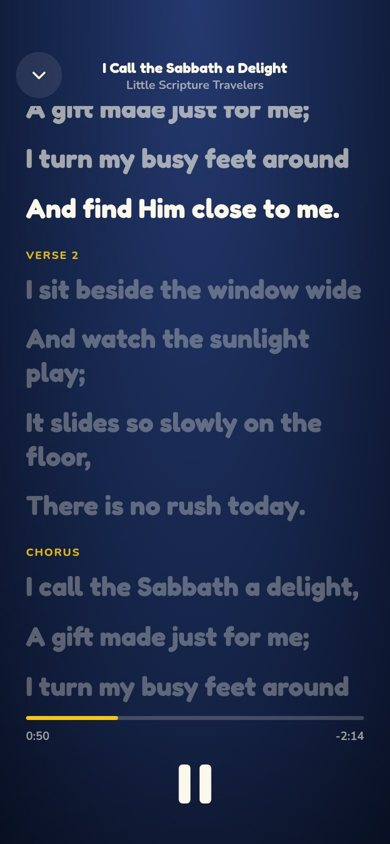
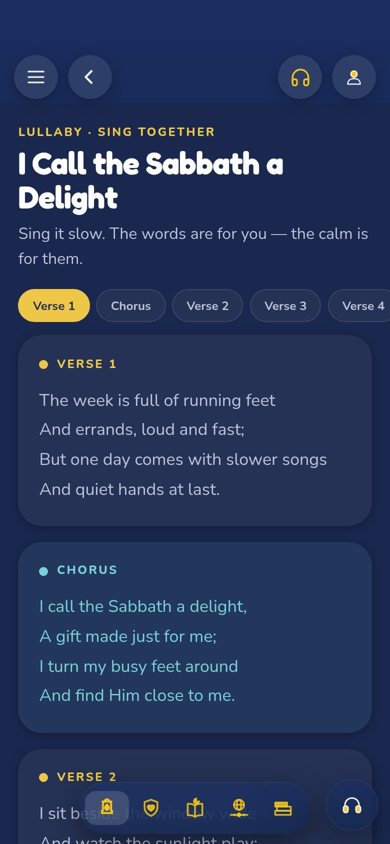
Website: the story phone's lullaby is the app itself; songs show both lyric pages; the story sits right after The Lantern
- Sing tonight's lullaby in the phone opens the real app, locked to that one
  song page (app.littlescripturetravelers.com/?demo-song=...): headphone
  bubble, little bar, big player with the night's cover and Lyrics - the
  same as on a phone. Back to the story returns to the same page.
- Tonight's Song & the Lantern Lullaby opens with two screens side by side:
  the night's song page and the Lantern Lullaby's page (data-app-shot2).
- The flip-through story sits right after The Lantern's plan, before the
  look inside the app.

Claude-Session: https://claude.ai/code/session_01PEnLUDwqFrrjJZBH17T5JA

diff --git a/subscribe.html b/subscribe.html
@@ -1160,52 +1160,7 @@
   <section class="subscribe-section" id="plans">
     <div class="section-inner">
 
-        <!-- THE STORY ON A PHONE (Levi, 16 Oct 2026): a real night's picture book, turned the way it is in the app. -->
-        <div class="app-tour story-demo" id="story-demo">
-          <div class="app-tour-kicker">&#10022; Try it yourself &#10022;</div>
-          <h3>Flip through a real Story of the Night</h3>
-          <p class="app-tour-sub">This is a real night from the app. Tap the page, or swipe it, to turn to the next one, just like on a phone.</p>
-          <script>
-          /* The story's last page asks its host to open the lullaby, the way the app does.
-             Here the song opens over the story, inside the phone; Back to the story closes
-             it and the book is still on the page it was on (Levi, 16 Oct 2026). */
-          function sdDress(f){ try{ var d=f.contentDocument; if(!d||!d.head) return; var s=d.createElement('style');
-            s.textContent='#backLink,.back{visibility:hidden!important}'; d.head.appendChild(s);
-            /* one tap on the song's Play or Listen starts the music, the way the app's headphones do */
-            if(f.id==='sdSong') d.addEventListener('click',function(e){
-              var t=e.target&&e.target.closest&&e.target.closest('[data-lantern-open]'); if(!t) return;
-              setTimeout(function(){ try{ var a=d.getElementById('player'), b=d.querySelector('.lp-play'); if(a&&a.paused&&b) b.click(); }catch(x){} },120);
-            },true);
-          }catch(e){} }
-          window.lstOpenSite=function(href){
-            var u=String(href||'').replace(/^https?:\/\/(www\.)?littlescripturetravelers\.com\//i,'/');
-            var song=document.getElementById('sdSong'); song.src=u; song.hidden=false;
-            document.getElementById('sdBack').hidden=false;
-          };
-          /* Inside a frame the song page hands its Play to "the app" (lst:play). On the website
-             there is no app, so its own player is started here instead. */
-          window.addEventListener('message',function(e){
-            var song=document.getElementById('sdSong'); if(!song||e.source!==song.contentWindow) return;
-            if(!e.data||e.data.type!=='lst:play') return;
-            try{ var w=song.contentWindow, d=song.contentDocument;
-              if(w.LanternPlayer){ w.LanternPlayer.show(); setTimeout(function(){ var b=d.querySelector('.lp-play'); if(b) b.click(); },60); }
-              else { var a=d.getElementById('player'); if(a) a.play(); } }catch(err){}
-          });
-          function sdBackToStory(){
-            var song=document.getElementById('sdSong');
-            try{ var a=song.contentDocument&&song.contentDocument.querySelectorAll('audio'); if(a) for(var i=0;i<a.length;i++) a[i].pause(); }catch(e){}
-            song.hidden=true; song.src='about:blank'; document.getElementById('sdBack').hidden=true;
-          }
-          </script>
-          <div class="sd-phone"><span class="sd-notch" aria-hidden="true"></span>
-            <iframe class="sd-screen" id="sdStory" src="lantern/the-day-called-delight/the-day-called-delight.html" loading="lazy" title="The Day Called Delight, a Little Scripture Travelers story to flip through"
-              onload="sdDress(this)"></iframe>
-            <iframe class="sd-screen sd-song" id="sdSong" hidden title="The story's lullaby" onload="sdDress(this)"></iframe>
-            <button type="button" class="sd-back" id="sdBack" hidden onclick="sdBackToStory()">&lsaquo; Back to the story</button>
-          </div>
 
-          <p class="app-tour-swipe">Every night brings a new one, with its own song at the end.</p>
-        </div>
       <!-- Draws nothing unless data/founding-offer.js is switched on. -->
       <div id="lst-founding"></div>
       <h2 class="section-title">The Lantern</h2>
@@ -1251,8 +1206,8 @@
               <span class="perk-label"><span class="perk-title">Tonight’s Song &amp; the Lantern Lullaby</span><span class="perk-line">A song written for each night’s story, and our signature lullaby, with the words on screen to sing along.</span></span>
               <span class="perk-eye" title="See it in the app">&#128065;</span>
               <div class="perk-popup">
-                <div class="perk-popup-media" data-product="app-songs" data-app-shot="images/app/app-songs.jpg" data-app-title="Tonight’s Song &amp; the Lantern Lullaby" data-app-desc="Every story has a song of its own, and the Lantern Lullaby is the same comforting song every night, so your child knows bedtime is here. The lyrics sit right under the player, each line lighting up as it is sung. Tap a line and the song starts from there. The Lantern Lullaby plays with one tap from the Lullabies page." style="cursor:zoom-in;">
-                  <img class="app-thumb" src="images/app/app-songs.jpg" alt="A lullaby in the app’s player, the line being sung lit up" loading="lazy" style="width:100%;border-radius:20px;display:block;">
+                <div class="perk-popup-media" data-product="app-songs" data-app-shot="images/app/app-songs.jpg" data-app-shot2="images/app/app-lullaby.jpg" data-app-title="Tonight’s Song &amp; the Lantern Lullaby" data-app-desc="Every story has a song of its own, and the Lantern Lullaby is the same comforting song every night, so your child knows bedtime is here. The lyrics sit right under the player, each line lighting up as it is sung. Tap a line and the song starts from there. The Lantern Lullaby plays with one tap from the Lullabies page." style="cursor:zoom-in;">
+                  <img class="app-thumb" src="images/app/app-songs.jpg" alt="Tonight’s song page in the app, with its words to sing" loading="lazy" style="width:100%;border-radius:20px;display:block;">
                   <div style="text-align:center;font-family: var(--font-body);font-size:0.65rem;color:var(--gold-ink-70);margin-top:4px;">Click to see it full size &#8599;</div>
                 </div>
                 <strong class="perk-popup-name">Tonight’s Song &amp; the Lantern Lullaby</strong>
@@ -1426,6 +1381,46 @@
   <!-- ── A look inside the app ── -->
   <section class="subscribe-section" id="inside-app-section" style="padding-top:1rem;">
     <div class="section-inner">
+        <!-- THE STORY ON A PHONE (Levi, 16 Oct 2026): a real night's picture book, turned the way it is in the app. -->
+        <div class="app-tour story-demo" id="story-demo">
+          <div class="app-tour-kicker">&#10022; Try it yourself &#10022;</div>
+          <h3>Flip through a real Story of the Night</h3>
+          <p class="app-tour-sub">This is a real night from the app. Tap the page, or swipe it, to turn to the next one, just like on a phone.</p>
+          <script>
+          /* The story's last page asks its host to open the lullaby, the way the app does.
+             Here the song opens over the story, inside the phone; Back to the story closes
+             it and the book is still on the page it was on (Levi, 16 Oct 2026). */
+          function sdDress(f){ try{ var d=f.contentDocument; if(!d||!d.head) return; var s=d.createElement('style');
+            s.textContent='#backLink,.back{visibility:hidden!important}'; d.head.appendChild(s);
+            /* one tap on the song's Play or Listen starts the music, the way the app's headphones do */
+            if(f.id==='sdSong') d.addEventListener('click',function(e){
+              var t=e.target&&e.target.closest&&e.target.closest('[data-lantern-open]'); if(!t) return;
+              setTimeout(function(){ try{ var a=d.getElementById('player'), b=d.querySelector('.lp-play'); if(a&&a.paused&&b) b.click(); }catch(x){} },120);
+            },true);
+          }catch(e){} }
+          window.lstOpenSite=function(href,title){
+            /* the app itself, locked to this one song page, so it plays exactly as it does on a phone */
+            var u=String(href||'').replace(/^https?:\/\/(www\.)?littlescripturetravelers\.com\//i,'https://littlescripturetravelers.com/');
+            var ph=document.querySelector('.sd-phone');
+            var song=document.getElementById('sdSong');
+            song.src='https://app.littlescripturetravelers.com/?demo-song='+encodeURIComponent(u)+'&date='+encodeURIComponent(ph.getAttribute('data-night-date')||'')+'&title='+encodeURIComponent(title||ph.getAttribute('data-song-title')||'');
+            song.hidden=false; document.getElementById('sdBack').hidden=false;
+          };
+          function sdBackToStory(){
+            var song=document.getElementById('sdSong');
+            try{ var a=song.contentDocument&&song.contentDocument.querySelectorAll('audio'); if(a) for(var i=0;i<a.length;i++) a[i].pause(); }catch(e){}
+            song.hidden=true; song.src='about:blank'; document.getElementById('sdBack').hidden=true;   /* leaving the page stops the song */
+          }
+          </script>
+          <div class="sd-phone" data-night-date="2026-10-16" data-song-title="I Call the Sabbath a Delight"><span class="sd-notch" aria-hidden="true"></span>
+            <iframe class="sd-screen" id="sdStory" src="lantern/the-day-called-delight/the-day-called-delight.html" loading="lazy" title="The Day Called Delight, a Little Scripture Travelers story to flip through"
+              onload="sdDress(this)"></iframe>
+            <iframe class="sd-screen sd-song" id="sdSong" hidden title="The story's lullaby" allow="autoplay"></iframe>
+            <button type="button" class="sd-back" id="sdBack" hidden onclick="sdBackToStory()">&lsaquo; Back to the story</button>
+          </div>
+
+          <p class="app-tour-swipe">Every night brings a new one, with its own song at the end.</p>
+        </div>
       <!-- A look inside the app: real screens from the app (images/app/). A tap opens one full size (js/lst-app-peek.js). -->
       <div class="app-tour" id="inside-app">
         <div class="app-tour-kicker">&#10022; A look inside the app &#10022;</div>
@@ -1434,7 +1429,7 @@
         <div class="app-tour-track">
           <button type="button" class="app-shot" data-app-shot="images/app/app-lantern.jpg" data-app-title="The Morning Lantern" data-app-desc="Waiting by 5 AM every morning: tonight’s scripture, the gospel principle behind it, and the background that brings it to life. Pick Quick for a few minutes, Medium for a little more, or Deep for a full study. A Parent’s Heart gives you three questions to ponder all day, so you reach bedtime with your own story ready to share. It comes in two editions, The Church of Jesus Christ of Latter-day Saints and Christian, each read aloud in its own recording." aria-label="See The Morning Lantern full size"><span class="app-shot-phone"><img src="images/app/app-lantern.jpg" alt="The Morning Lantern in the app: tonight’s scripture and Tonight’s Resources, the lullaby, the story and the Lantern Lullaby" loading="lazy" width="390" height="844"></span><span class="app-shot-cap">The Morning Lantern<span class="app-shot-line">Quick, Medium or Deep</span></span></button>
           <button type="button" class="app-shot" data-app-shot="images/app/app-story.jpg" data-app-title="A New Bedtime Story Every Night" data-app-desc="A short, gentle scripture story for every night, told in the smallest words that still carry the meaning, with one of the four Travelers beside it. It is a picture book you flip through on the phone: a big picture and a few lines on every page. Read it to your children yourself, or tap the headphones and the app reads it aloud. On the last page, one tap opens tonight’s song." aria-label="See A New Bedtime Story Every Night full size"><span class="app-shot-phone"><img src="images/app/app-story.jpg" alt="Tonight’s picture book in the app, a big picture and a few lines on each page" loading="lazy" width="390" height="844"></span><span class="app-shot-cap">A New Bedtime Story Every Night<span class="app-shot-line">A new one every night</span></span></button>
-          <button type="button" class="app-shot" data-app-shot="images/app/app-songs.jpg" data-app-title="Tonight’s Song &amp; the Lantern Lullaby" data-app-desc="Every story has a song of its own, and the Lantern Lullaby is the same comforting song every night, so your child knows bedtime is here. The lyrics sit right under the player, each line lighting up as it is sung. Tap a line and the song starts from there. The Lantern Lullaby plays with one tap from the Lullabies page." aria-label="See Tonight’s Song &amp; the Lantern Lullaby full size"><span class="app-shot-phone"><img src="images/app/app-songs.jpg" alt="A lullaby in the app’s player, the line being sung lit up" loading="lazy" width="390" height="844"></span><span class="app-shot-cap">Tonight’s Song &amp; the Lantern Lullaby<span class="app-shot-line">Lyrics to sing along</span></span></button>
+          <button type="button" class="app-shot" data-app-shot="images/app/app-songs.jpg" data-app-shot2="images/app/app-lullaby.jpg" data-app-title="Tonight’s Song &amp; the Lantern Lullaby" data-app-desc="Every story has a song of its own, and the Lantern Lullaby is the same comforting song every night, so your child knows bedtime is here. The lyrics sit right under the player, each line lighting up as it is sung. Tap a line and the song starts from there. The Lantern Lullaby plays with one tap from the Lullabies page." aria-label="See Tonight’s Song &amp; the Lantern Lullaby full size"><span class="app-shot-phone"><img src="images/app/app-songs.jpg" alt="Tonight’s song page in the app, with its words to sing" loading="lazy" width="390" height="844"></span><span class="app-shot-cap">Tonight’s Song &amp; the Lantern Lullaby<span class="app-shot-line">Lyrics to sing along</span></span></button>
           <button type="button" class="app-shot" data-app-shot="images/app/app-library.jpg" data-app-title="The Virtue Library" data-app-desc="Your child is facing something real tonight: a fib, a lost temper, a hard goodbye. Look it up by virtue, by character, by life situation, by feeling or by scripture, and the story that fits is already there." aria-label="See The Virtue Library full size"><span class="app-shot-phone"><img src="images/app/app-library.jpg" alt="The Virtue Library in the app, with stories sorted by virtue" loading="lazy" width="390" height="844"></span><span class="app-shot-cap">The Virtue Library<span class="app-shot-line">Find tonight’s story</span></span></button>
           <button type="button" class="app-shot" data-app-shot="images/app/app-archive.jpg" data-app-title="Daily Stories" data-app-desc="Every night that has gone out, newest first, with its story, its Morning Lantern and its song kept together. Search by date, title or scripture to find a favorite again." aria-label="See Daily Stories full size"><span class="app-shot-phone"><img src="images/app/app-archive.jpg" alt="Daily Stories in the app, a list of past nights with their scriptures" loading="lazy" width="390" height="844"></span><span class="app-shot-cap">Daily Stories<span class="app-shot-line">Every night kept</span></span></button>
           <button type="button" class="app-shot" data-app-shot="images/app/app-journal.jpg" data-app-title="The Journal" data-app-desc="Your own private book. Type, or just talk and the app writes it down. Keep voice memos, write from a daily prompt, and look back by calendar or on a map of where you were. The night’s reflections are filed here too." aria-label="See The Journal full size"><span class="app-shot-phone"><img src="images/app/app-journal.jpg" alt="The Journal in the app, today’s entries, a daily prompt and Just talk" loading="lazy" width="390" height="844"></span><span class="app-shot-cap">The Journal<span class="app-shot-line">Your private diary</span></span></button>

diff --git a/index.html b/index.html
@@ -752,52 +752,7 @@
       <div style="max-width:1100px;margin:0 auto;">
 
         <!-- Header -->
-        <!-- THE STORY ON A PHONE (Levi, 16 Oct 2026): a real night's picture book, turned the way it is in the app. -->
-        <div class="app-tour story-demo" id="story-demo">
-          <div class="app-tour-kicker">&#10022; Try it yourself &#10022;</div>
-          <h3>Flip through a real Story of the Night</h3>
-          <p class="app-tour-sub">This is a real night from the app. Tap the page, or swipe it, to turn to the next one, just like on a phone.</p>
-          <script>
-          /* The story's last page asks its host to open the lullaby, the way the app does.
-             Here the song opens over the story, inside the phone; Back to the story closes
-             it and the book is still on the page it was on (Levi, 16 Oct 2026). */
-          function sdDress(f){ try{ var d=f.contentDocument; if(!d||!d.head) return; var s=d.createElement('style');
-            s.textContent='#backLink,.back{visibility:hidden!important}'; d.head.appendChild(s);
-            /* one tap on the song's Play or Listen starts the music, the way the app's headphones do */
-            if(f.id==='sdSong') d.addEventListener('click',function(e){
-              var t=e.target&&e.target.closest&&e.target.closest('[data-lantern-open]'); if(!t) return;
-              setTimeout(function(){ try{ var a=d.getElementById('player'), b=d.querySelector('.lp-play'); if(a&&a.paused&&b) b.click(); }catch(x){} },120);
-            },true);
-          }catch(e){} }
-          window.lstOpenSite=function(href){
-            var u=String(href||'').replace(/^https?:\/\/(www\.)?littlescripturetravelers\.com\//i,'/');
-            var song=document.getElementById('sdSong'); song.src=u; song.hidden=false;
-            document.getElementById('sdBack').hidden=false;
-          };
-          /* Inside a frame the song page hands its Play to "the app" (lst:play). On the website
-             there is no app, so its own player is started here instead. */
-          window.addEventListener('message',function(e){
-            var song=document.getElementById('sdSong'); if(!song||e.source!==song.contentWindow) return;
-            if(!e.data||e.data.type!=='lst:play') return;
-            try{ var w=song.contentWindow, d=song.contentDocument;
-              if(w.LanternPlayer){ w.LanternPlayer.show(); setTimeout(function(){ var b=d.querySelector('.lp-play'); if(b) b.click(); },60); }
-              else { var a=d.getElementById('player'); if(a) a.play(); } }catch(err){}
-          });
-          function sdBackToStory(){
-            var song=document.getElementById('sdSong');
-            try{ var a=song.contentDocument&&song.contentDocument.querySelectorAll('audio'); if(a) for(var i=0;i<a.length;i++) a[i].pause(); }catch(e){}
-            song.hidden=true; song.src='about:blank'; document.getElementById('sdBack').hidden=true;
-          }
-          </script>
-          <div class="sd-phone"><span class="sd-notch" aria-hidden="true"></span>
-            <iframe class="sd-screen" id="sdStory" src="lantern/the-day-called-delight/the-day-called-delight.html" loading="lazy" title="The Day Called Delight, a Little Scripture Travelers story to flip through"
-              onload="sdDress(this)"></iframe>
-            <iframe class="sd-screen sd-song" id="sdSong" hidden title="The story's lullaby" onload="sdDress(this)"></iframe>
-            <button type="button" class="sd-back" id="sdBack" hidden onclick="sdBackToStory()">&lsaquo; Back to the story</button>
-          </div>
 
-          <p class="app-tour-swipe">Every night brings a new one, with its own song at the end.</p>
-        </div>
 
         <div style="text-align:center;margin-bottom:2rem;">
           <div style="font-family: var(--font-accent);font-size:0.72rem;letter-spacing:0.2em;text-transform:uppercase;color:var(--gold-ink);margin-bottom:0.75rem;">✦ THE LANTERN ✦</div>
@@ -848,8 +803,8 @@
                 <span class="perk-label"><span class="perk-title">Tonight’s Song &amp; the Lantern Lullaby</span><span class="perk-line">A song written for each night’s story, and our signature lullaby, with the words on screen to sing along.</span></span>
                 <span class="perk-eye" title="See it in the app">&#128065;</span>
                 <div class="perk-popup">
-                  <div class="perk-popup-media" data-product="app-songs" data-app-shot="images/app/app-songs.jpg" data-app-title="Tonight’s Song &amp; the Lantern Lullaby" data-app-desc="Every story has a song of its own, and the Lantern Lullaby is the same comforting song every night, so your child knows bedtime is here. The lyrics sit right under the player, each line lighting up as it is sung. Tap a line and the song starts from there. The Lantern Lullaby plays with one tap from the Lullabies page." style="cursor:zoom-in;">
-                    <img class="app-thumb" src="images/app/app-songs.jpg" alt="A lullaby in the app’s player, the line being sung lit up" loading="lazy" style="width:100%;border-radius:20px;display:block;">
+                  <div class="perk-popup-media" data-product="app-songs" data-app-shot="images/app/app-songs.jpg" data-app-shot2="images/app/app-lullaby.jpg" data-app-title="Tonight’s Song &amp; the Lantern Lullaby" data-app-desc="Every story has a song of its own, and the Lantern Lullaby is the same comforting song every night, so your child knows bedtime is here. The lyrics sit right under the player, each line lighting up as it is sung. Tap a line and the song starts from there. The Lantern Lullaby plays with one tap from the Lullabies page." style="cursor:zoom-in;">
+                    <img class="app-thumb" src="images/app/app-songs.jpg" alt="Tonight’s song page in the app, with its words to sing" loading="lazy" style="width:100%;border-radius:20px;display:block;">
                     <div style="text-align:center;font-family: var(--font-body);font-size:0.65rem;color:var(--gold-ink-70);margin-top:4px;">Click to see it full size &#8599;</div>
                   </div>
                   <strong class="perk-popup-name">Tonight’s Song &amp; the Lantern Lullaby</strong>
@@ -1006,6 +961,46 @@
 
         </div>
 
+        <!-- THE STORY ON A PHONE (Levi, 16 Oct 2026): a real night's picture book, turned the way it is in the app. -->
+        <div class="app-tour story-demo" id="story-demo">
+          <div class="app-tour-kicker">&#10022; Try it yourself &#10022;</div>
+          <h3>Flip through a real Story of the Night</h3>
+          <p class="app-tour-sub">This is a real night from the app. Tap the page, or swipe it, to turn to the next one, just like on a phone.</p>
+          <script>
+          /* The story's last page asks its host to open the lullaby, the way the app does.
+             Here the song opens over the story, inside the phone; Back to the story closes
+             it and the book is still on the page it was on (Levi, 16 Oct 2026). */
+          function sdDress(f){ try{ var d=f.contentDocument; if(!d||!d.head) return; var s=d.createElement('style');
+            s.textContent='#backLink,.back{visibility:hidden!important}'; d.head.appendChild(s);
+            /* one tap on the song's Play or Listen starts the music, the way the app's headphones do */
+            if(f.id==='sdSong') d.addEventListener('click',function(e){
+              var t=e.target&&e.target.closest&&e.target.closest('[data-lantern-open]'); if(!t) return;
+              setTimeout(function(){ try{ var a=d.getElementById('player'), b=d.querySelector('.lp-play'); if(a&&a.paused&&b) b.click(); }catch(x){} },120);
+            },true);
+          }catch(e){} }
+          window.lstOpenSite=function(href,title){
+            /* the app itself, locked to this one song page, so it plays exactly as it does on a phone */
+            var u=String(href||'').replace(/^https?:\/\/(www\.)?littlescripturetravelers\.com\//i,'https://littlescripturetravelers.com/');
+            var ph=document.querySelector('.sd-phone');
+            var song=document.getElementById('sdSong');
+            song.src='https://app.littlescripturetravelers.com/?demo-song='+encodeURIComponent(u)+'&date='+encodeURIComponent(ph.getAttribute('data-night-date')||'')+'&title='+encodeURIComponent(title||ph.getAttribute('data-song-title')||'');
+            song.hidden=false; document.getElementById('sdBack').hidden=false;
+          };
+          function sdBackToStory(){
+            var song=document.getElementById('sdSong');
+            try{ var a=song.contentDocument&&song.contentDocument.querySelectorAll('audio'); if(a) for(var i=0;i<a.length;i++) a[i].pause(); }catch(e){}
+            song.hidden=true; song.src='about:blank'; document.getElementById('sdBack').hidden=true;   /* leaving the page stops the song */
+          }
+          </script>
+          <div class="sd-phone" data-night-date="2026-10-16" data-song-title="I Call the Sabbath a Delight"><span class="sd-notch" aria-hidden="true"></span>
+            <iframe class="sd-screen" id="sdStory" src="lantern/the-day-called-delight/the-day-called-delight.html" loading="lazy" title="The Day Called Delight, a Little Scripture Travelers story to flip through"
+              onload="sdDress(this)"></iframe>
+            <iframe class="sd-screen sd-song" id="sdSong" hidden title="The story's lullaby" allow="autoplay"></iframe>
+            <button type="button" class="sd-back" id="sdBack" hidden onclick="sdBackToStory()">&lsaquo; Back to the story</button>
+          </div>
+
+          <p class="app-tour-swipe">Every night brings a new one, with its own song at the end.</p>
+        </div>
         <!-- A look inside the app: real screens from the app (images/app/). A tap opens one full size (js/lst-app-peek.js). -->
         <div class="app-tour" id="inside-app">
           <div class="app-tour-kicker">&#10022; A look inside the app &#10022;</div>
@@ -1014,7 +1009,7 @@
           <div class="app-tour-track">
             <button type="button" class="app-shot" data-app-shot="images/app/app-lantern.jpg" data-app-title="The Morning Lantern" data-app-desc="Waiting by 5 AM every morning: tonight’s scripture, the gospel principle behind it, and the background that brings it to life. Pick Quick for a few minutes, Medium for a little more, or Deep for a full study. A Parent’s Heart gives you three questions to ponder all day, so you reach bedtime with your own story ready to share. It comes in two editions, The Church of Jesus Christ of Latter-day Saints and Christian, each read aloud in its own recording." aria-label="See The Morning Lantern full size"><span class="app-shot-phone"><img src="images/app/app-lantern.jpg" alt="The Morning Lantern in the app: tonight’s scripture and Tonight’s Resources, the lullaby, the story and the Lantern Lullaby" loading="lazy" width="390" height="844"></span><span class="app-shot-cap">The Morning Lantern<span class="app-shot-line">Quick, Medium or Deep</span></span></button>
             <button type="button" class="app-shot" data-app-shot="images/app/app-story.jpg" data-app-title="A New Bedtime Story Every Night" data-app-desc="A short, gentle scripture story for every night, told in the smallest words that still carry the meaning, with one of the four Travelers beside it. It is a picture book you flip through on the phone: a big picture and a few lines on every page. Read it to your children yourself, or tap the headphones and the app reads it aloud. On the last page, one tap opens tonight’s song." aria-label="See A New Bedtime Story Every Night full size"><span class="app-shot-phone"><img src="images/app/app-story.jpg" alt="Tonight’s picture book in the app, a big picture and a few lines on each page" loading="lazy" width="390" height="844"></span><span class="app-shot-cap">A New Bedtime Story Every Night<span class="app-shot-line">A new one every night</span></span></button>
-            <button type="button" class="app-shot" data-app-shot="images/app/app-songs.jpg" data-app-title="Tonight’s Song &amp; the Lantern Lullaby" data-app-desc="Every story has a song of its own, and the Lantern Lullaby is the same comforting song every night, so your child knows bedtime is here. The lyrics sit right under the player, each line lighting up as it is sung. Tap a line and the song starts from there. The Lantern Lullaby plays with one tap from the Lullabies page." aria-label="See Tonight’s Song &amp; the Lantern Lullaby full size"><span class="app-shot-phone"><img src="images/app/app-songs.jpg" alt="A lullaby in the app’s player, the line being sung lit up" loading="lazy" width="390" height="844"></span><span class="app-shot-cap">Tonight’s Song &amp; the Lantern Lullaby<span class="app-shot-line">Lyrics to sing along</span></span></button>
+            <button type="button" class="app-shot" data-app-shot="images/app/app-songs.jpg" data-app-shot2="images/app/app-lullaby.jpg" data-app-title="Tonight’s Song &amp; the Lantern Lullaby" data-app-desc="Every story has a song of its own, and the Lantern Lullaby is the same comforting song every night, so your child knows bedtime is here. The lyrics sit right under the player, each line lighting up as it is sung. Tap a line and the song starts from there. The Lantern Lullaby plays with one tap from the Lullabies page." aria-label="See Tonight’s Song &amp; the Lantern Lullaby full size"><span class="app-shot-phone"><img src="images/app/app-songs.jpg" alt="Tonight’s song page in the app, with its words to sing" loading="lazy" width="390" height="844"></span><span class="app-shot-cap">Tonight’s Song &amp; the Lantern Lullaby<span class="app-shot-line">Lyrics to sing along</span></span></button>
             <button type="button" class="app-shot" data-app-shot="images/app/app-library.jpg" data-app-title="The Virtue Library" data-app-desc="Your child is facing something real tonight: a fib, a lost temper, a hard goodbye. Look it up by virtue, by character, by life situation, by feeling or by scripture, and the story that fits is already there." aria-label="See The Virtue Library full size"><span class="app-shot-phone"><img src="images/app/app-library.jpg" alt="The Virtue Library in the app, with stories sorted by virtue" loading="lazy" width="390" height="844"></span><span class="app-shot-cap">The Virtue Library<span class="app-shot-line">Find tonight’s story</span></span></button>
             <button type="button" class="app-shot" data-app-shot="images/app/app-archive.jpg" data-app-title="Daily Stories" data-app-desc="Every night that has gone out, newest first, with its story, its Morning Lantern and its song kept together. Search by date, title or scripture to find a favorite again." aria-label="See Daily Stories full size"><span class="app-shot-phone"><img src="images/app/app-archive.jpg" alt="Daily Stories in the app, a list of past nights with their scriptures" loading="lazy" width="390" height="844"></span><span class="app-shot-cap">Daily Stories<span class="app-shot-line">Every night kept</span></span></button>
             <button type="button" class="app-shot" data-app-shot="images/app/app-journal.jpg" data-app-title="The Journal" data-app-desc="Your own private book. Type, or just talk and the app writes it down. Keep voice memos, write from a daily prompt, and look back by calendar or on a map of where you were. The night’s reflections are filed here too." aria-label="See The Journal full size"><span class="app-shot-phone"><img src="images/app/app-journal.jpg" alt="The Journal in the app, today’s entries, a daily prompt and Just talk" loading="lazy" width="390" height="844"></span><span class="app-shot-cap">The Journal<span class="app-shot-line">Your private diary</span></span></button>

diff --git a/js/lst-app-peek.js b/js/lst-app-peek.js
@@ -25,7 +25,8 @@
     box.innerHTML =
       '<div class="app-peek-box">' +
         '<button type="button" class="app-peek-close" aria-label="Close">&#x2715;</button>' +
-        '<div class="app-peek-phone"><img alt=""></div>' +
+        '<div class="app-peek-phones"><div class="app-peek-phone"><img alt=""></div>' +
+        '<div class="app-peek-phone app-peek-phone2"><img alt=""></div></div>' +
         '<div class="app-peek-text">' +
           '<div class="app-peek-kicker">In the app</div>' +
           '<h3 class="app-peek-title"></h3>' +
@@ -59,7 +60,7 @@
       var src = el.getAttribute("data-app-shot");
       if (!src || seen[src]) return;
       seen[src] = 1;
-      out.push({ src: src, title: el.getAttribute("data-app-title") || "", desc: el.getAttribute("data-app-desc") || "" });
+      out.push({ src: src, src2: el.getAttribute("data-app-shot2") || "", title: el.getAttribute("data-app-title") || "", desc: el.getAttribute("data-app-desc") || "" });
     });
     return out;
   }
@@ -70,6 +71,10 @@
     var it = list[at];
     var img = box.querySelector(".app-peek-phone img");
     img.src = it.src;
+    /* a feature with two screens (tonight's song and the Lantern Lullaby) shows both, side by side */
+    var p2 = box.querySelector(".app-peek-phone2");
+    box.classList.toggle("two", !!it.src2);
+    if (it.src2) { p2.querySelector("img").src = it.src2; p2.querySelector("img").alt = "The Lantern Lullaby's page in the Little Scripture Travelers app"; }
     img.alt = it.title ? "The " + it.title.replace(/^The /, "") + " screen in the Little Scripture Travelers app" : "A screen from the Little Scripture Travelers app";
     box.querySelector(".app-peek-title").textContent = it.title;
     box.querySelector(".app-peek-desc").textContent = it.desc;

diff --git a/style.css b/style.css
@@ -3749,3 +3749,15 @@ html[data-theme="light"] .bs-art {
 /* A perk opens its screen full size on a tap; the small hover preview is retired (Levi, 16 Oct 2026). */
 .lantern-perks li.has-preview .perk-popup{display:none!important;}
 .lantern-perks li.has-preview{cursor:pointer;}
+
+/* two screens for one feature, side by side (js/lst-app-peek.js, data-app-shot2) */
+.app-peek-phones{display:flex;gap:14px;align-items:flex-start;flex:0 0 auto;}
+.app-peek-phone2{display:none;}
+.app-peek.two .app-peek-phone2{display:block;}
+@media (max-width: 760px){
+  .app-peek.two .app-peek-phones{width:100%;justify-content:center;gap:10px;}
+  .app-peek.two .app-peek-phone{width:calc(50% - 5px) !important;max-width:240px;}
+}
+.app-peek.two .app-peek-box{max-width:1120px;}
+.app-peek.two .app-peek-phone{height:min(70vh,620px);}
+@media (max-width: 760px){ .app-peek.two .app-peek-phone{height:auto;} }
